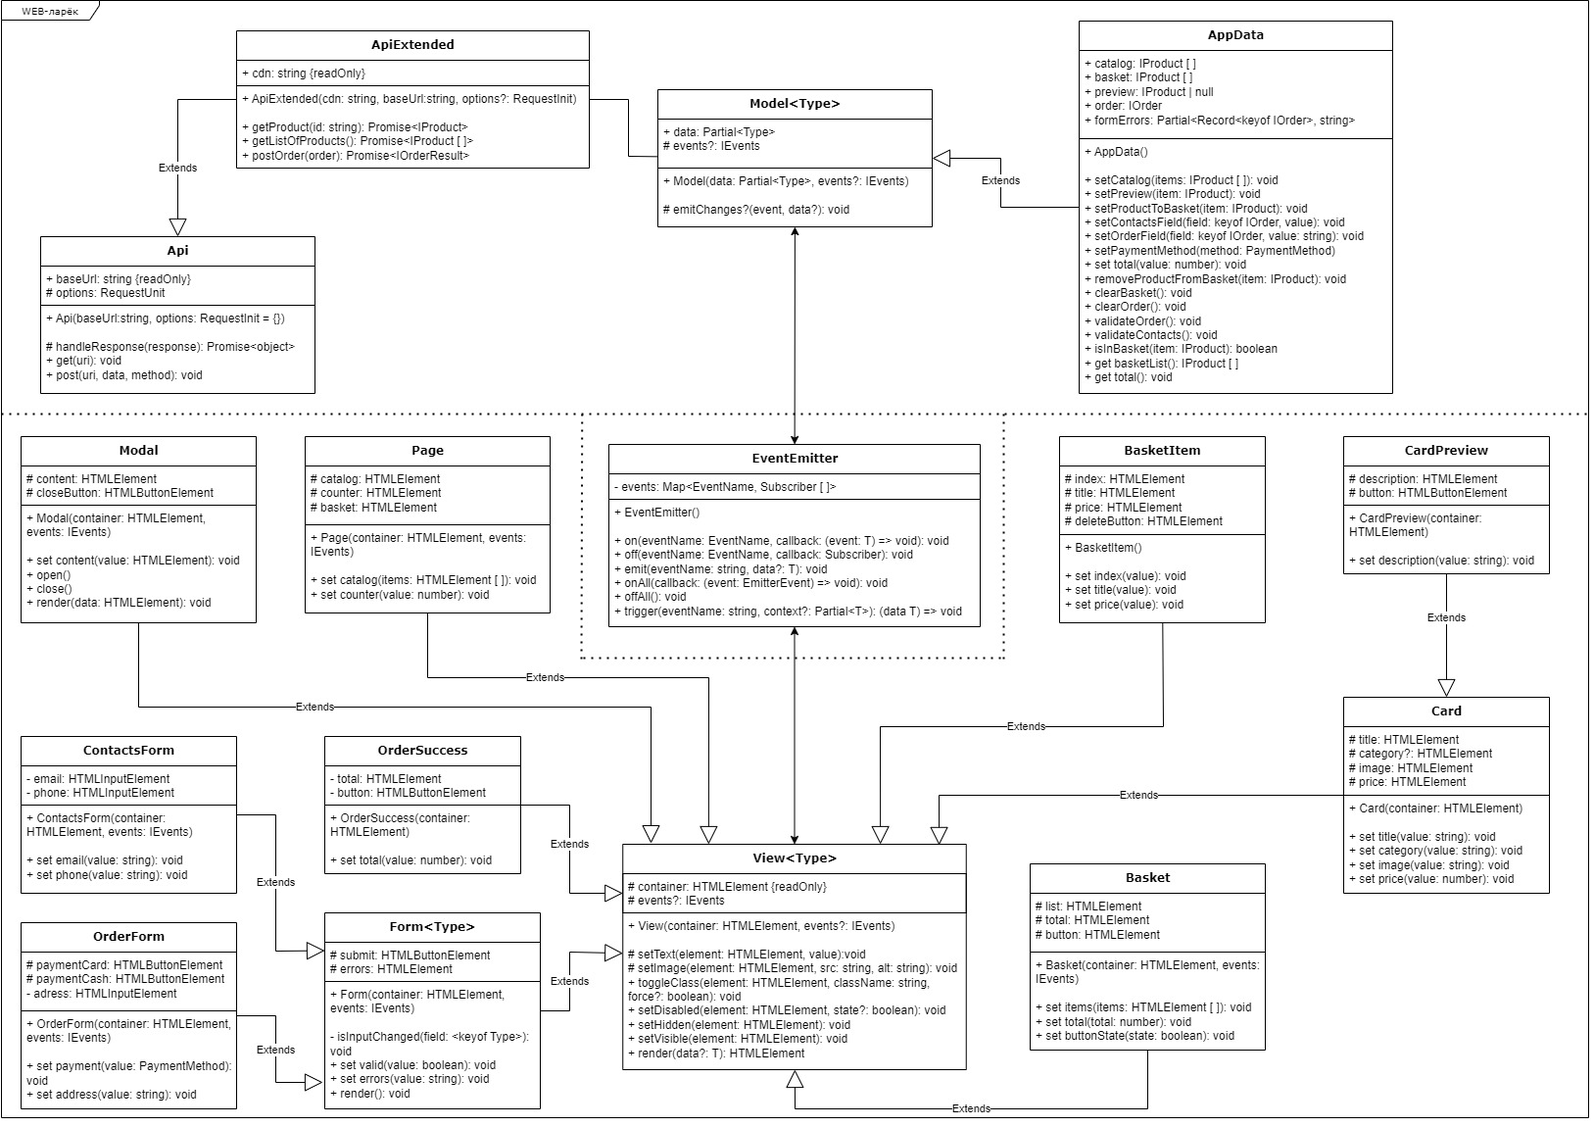
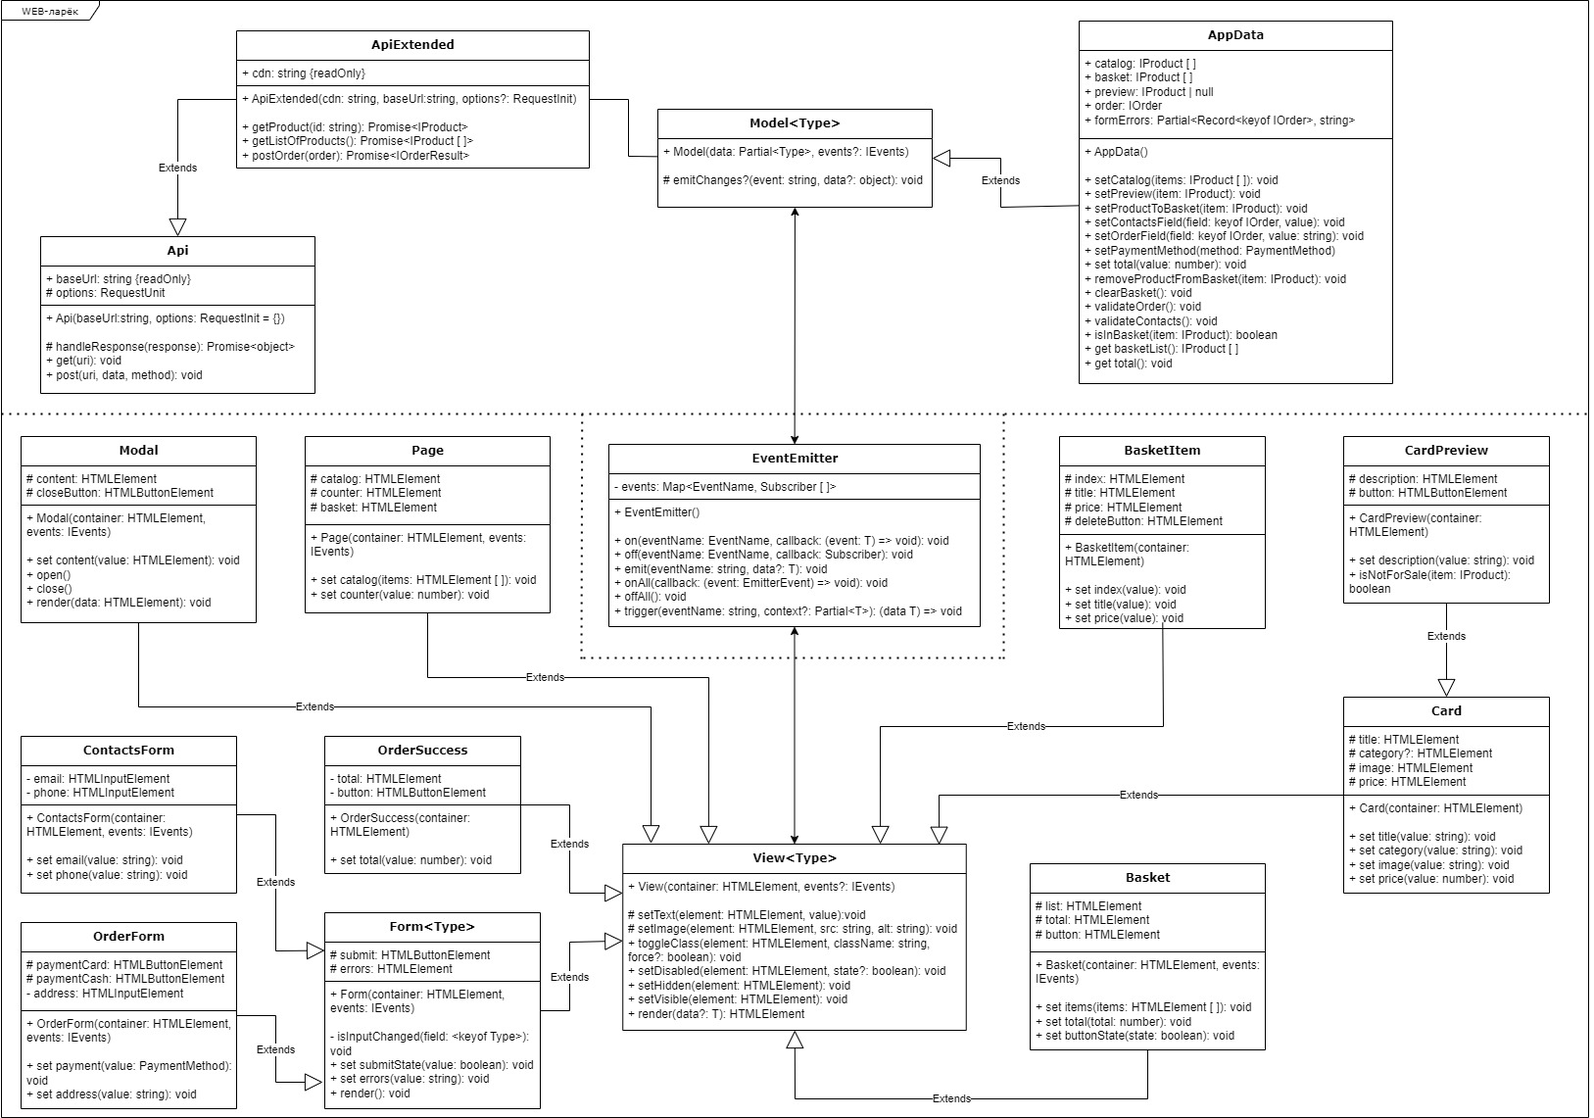
сформирован первоначальный вариант документации проекта

diff --git a/README.md b/README.md
@@ -48,7 +48,11 @@ yarn build
 ## Архитектура
 
 В проекте используется архитектура MVP (Model-View-Presenter), которая разделяет приложение на три основных слоя: модель (бизнес-логика приложения, реализующая хранение и изменение данных), отображение (реализует вывод данных пользователю) и брокер событий (презентер). 
-Данная архитектура строится на событийно-ориентированном подходе к проектированию, который предполагает, что брокер событий связывает между собой модель и отображение, обрабатывая события и передавая данные между ними.  
+Данная архитектура строится на событийно-ориентированном подходе к проектированию, который предполагает, что брокер событий связывает между собой модель и отображение, обрабатывая события и передавая данные между ними.
+
+### UML-схема
+
+![UML](https://github.com/Roman-Gaponov/web-larek-frontend/blob/main/project-uml.jpg)
 
 ## Базовый код
 
@@ -67,7 +71,7 @@ yarn build
 
 **Поля**
 
-`_events` - тип Map, включающий в себя события и "подписчиков" на эти события (компоненты модели или отображения)
+`_events` - тип `Map`, включающий в себя события и "подписчиков" на эти события (компоненты модели или отображения).
 
 **Методы**
 
@@ -77,6 +81,7 @@ yarn build
 - `onAll` - подписка на все события;
 - `offAll` - сброс всех подписок;
 - `trigger` - генератор события с заданными аргументами, что позволяет передавать его в качестве обработчика события в другие классы.
+
 
 ### Модель
 
@@ -92,8 +97,8 @@ yarn build
 
 **Поля**
 
-`baseUrl` - адрес сервера;
-`options` - объект с дополнительными опциями к запросу.
+- `baseUrl` - адрес сервера;
+- `options` - объект с дополнительными опциями к запросу.
 
 **Методы**
 
@@ -101,19 +106,20 @@ yarn build
 - `get` - выполняет GET запрос на сервер;
 - `post` - по умолчанию выполняет POST запрос на сервер (может быть переопределён).
 
+
 #### Класс `ApiExtended`
 
 Расширяет возможности базового класса Api. 
 
 **Конструктор**
 
-`constructor(cdn: string, baseUrl: string, options: RequestInit = {})` 
+`constructor(cdn: string, baseUrl: string, options?: RequestInit)` 
 
 - дополнительно принимает в качестве аргумента url с контентом для проекта.
 
 **Поля**
 
-`cdn` - url с контентом;
+- `cdn` - url с контентом.
 
 **Методы**
 
@@ -121,21 +127,75 @@ yarn build
 - `getListOfProducts` - получить список всех продуктов;
 - `postOrder` - отправить сформированный заказ на сервер.
 
-#### Класс `Model`
 
+#### Абстрактный класс `Model<Type>`
+
+Базовый класс модели, объединяющий данные неявного типа и привязывающий события. 
+
+**Конструктор**
+
+`constructor(data: Partial<Type>, events?: IEvents)` 
+
+- принимает в качестве аргументов данные неявного типа и объект события.
+
+**Методы**
+
+- `emitChanges` - привязывает входящее событие к брокеру событий;
 
 
 #### Класс `AppData`
 
+Реализует основную бизнес-логику приложения и хранение данных.  
 
+**Поля**
 
-#### Класс `ProductItem`
+- `catalog` - массив данных товаров в каталоге;
+- `basket` - массив данных товаров в корзине;
+- `preview` - данные для товара, открытого в превью;
+- `order` - данные для заказа;
+- `formErrors` - данные ошибок валидации.
 
+**Методы**
 
-
+- `setCatalog` - установить новый каталог товаров;
+- `setPreview` - установить данные товара для превью;
+- `setProductToBasket` - поместить продукт в корзину;
+- `setContactsField` - установить поле контактов;
+- `setOrderField` - установить поле заказа;
+- `setPaymentMethod` - установить метод оплаты заказа;
+- `set total` - сеттер, устанавливающий количество товаров в корзине;
+- `removeProductFromBasket` - удалить товар из корзины;
+- `clearBasket` - очистить данные корзины;
+- `validateOrder` - валидировать данные заказа;
+- `validateContacts` - валидировать данные контактов пользователя;
+- `isInBasket` - проверить находится ли товар в козине;
+- `get basketList` - геттер, получающий массив товаров в корзине;
+- `get total` - геттер, получающий количество товаров в корзине.
 
 
 ### Отображение
+
+
+#### Абстрактный класс `View<Type>`
+
+Базовый класс для создания и отображения компонентов пользовательского интерфейса.
+Содержит основные методы для работы с компонентами отображения. 
+
+**Конструктор**
+
+`constructor(container: HTMLElement, events?: IEvents)` 
+
+- принимает в качестве аргументов элемент контейнера, в который будет помещён компонент и объект брокера событий.
+
+**Методы**
+
+- `setText` - установить текст;
+- `setImage` - установить изображение и альтернативный текст;
+- `toggleClass` - переключить класс элемента;
+- `setDisabled` - установить состояние элемента;
+- `setHidden` - скрыть элемент;
+- `setVisible` - отобразить элемент;
+- `render` - отобразить элемент с переданными параметрами.
 
 
 #### Класс `Page`
@@ -146,41 +206,217 @@ yarn build
 
 `constructor(container: HTMLElement, events: IEvents)` 
 
-- принимает в качестве аргументов DOM-элемент главной страницы и брокер событий.
+- принимает в качестве аргументов DOM-элемент главной страницы и объект брокера событий.
 
 **Поля**
 
+- `catalog` - элемент каталога;
+- `counter` - элемент счётчика товаров в корзине;
+- `basket` - элемент корзины.
 
 **Методы**
 
-
-
-
-
-#### Класс `View`
-
-
+- `set catalog` - сеттер, устанавливающий массив товаров в каталоге страницы;
+- `set counter` - сеттер, устанавливающий значение счётчика товаров в корзине.
 
 
 #### Класс `Basket`
 
+Реализует отображение корзины в модальном окне. 
 
+**Конструктор**
+
+`constructor(container: HTMLElement, events: IEvents)` 
+
+- принимает в качестве аргументов элемент корзины и объект брокера событий.
+
+**Поля**
+
+- `list` - элемент списка товаров в корзине;
+- `total` - элемент суммы цены товаров;
+- `button` - элемент кнопки перехода на оформление заказа.
+
+**Методы**
+
+- `set items` - сеттер, устанавливающий массив товаров в элемент `list`;
+- `set total` - сеттер, устанавливающий сумму цены товаров в элемент `total`;
+- `set buttonState` - сеттер, устанавливающий состояние кнопки перехода на оформление заказа.
+
+
+#### Класс `BasketItem`
+
+Реализует отображение данных карточки товара в корзине. 
+
+**Конструктор**
+
+`constructor(container: HTMLElement)` 
+
+- принимает в качестве аргумента элемент карточки товара в корзине.
+
+**Поля**
+
+- `index` - элемент индекса товара в корзине;
+- `title` - элемент наименования товара;
+- `price` - элемент цены товара;
+- `deleteButton` - элемент кнопки удаления товара.
+
+**Методы**
+
+- `set index` - сеттер, устанавливающий индекс товара;
+- `set title` - сеттер, устанавливающий наименование товара;
+- `set price` - сеттер, устанавливающий цену товара.
 
 
 #### Класс `Card`
 
+Реализует отображение карточки товара в каталоге. 
+
+**Конструктор**
+
+`constructor(container: HTMLElement)` 
+
+- принимает в качестве аргумента DOM-элемент карточки на базе шаблона.
+
+**Поля**
+
+- `title` - элемент заголовка карточки;
+- `category` - элемент категории карточки;
+- `image` - элемент изображения;
+- `price` - элемент цены.
+
+**Методы**
+
+- `set title` - сеттер, устанавливающий заголовок карточки;
+- `set category` - сеттер, устанавливающий категорию;
+- `set image` - сеттер, устанавливающий изображение;
+- `set price` - сеттер, устанавливающий цену.
 
 
+#### Класс `CardPreview`
 
-#### Класс `Order`
+Реализует отображение карточки в превью. 
 
+**Конструктор**
 
+`constructor(container: HTMLElement)` 
+
+- принимает в качестве аргумента DOM-элемент карточки на базе шаблона.
+
+**Поля**
+
+- `description` - элемент описания товара;
+- `button` - элемент кнопки в превью.
+
+**Методы**
+
+- `set description` - сеттер, устанавливающий описание товара в превью.
 
 
 #### Класс `Modal`
 
+Реализует модальное окно. 
+
+**Конструктор**
+
+`constructor(container: HTMLElement, events: IEvents)` 
+
+- принимает в качестве аргументов DOM-элемент модального окна на базе шаблона и объект брокера событий.
+
+**Поля**
+
+- `content` - элемент с содержимым модального окна;
+- `closeButton` - элемент кнопки закрытия модального окна.
+
+**Методы**
+
+- `set content` - сеттер, устанавливающий содержимое модального окна;
+- `open` - открыть модальное окно;
+- `close` - закрыть модальное окно.
+- `render` - отобразить модальное окно с переданным содержимым.
 
 
+#### Класс `Form<Type>`
 
-#### Класс ``
+Общий класс для форм. 
+Предоставляет общие инструменты для работы с отображением элементов формы.
 
+**Конструктор**
+
+`constructor(container: HTMLElement, events: IEvents)` 
+
+- принимает в качестве аргументов форму и объект брокера событий.
+
+**Поля**
+
+- `submit` - элемент кнопки сабмита формы;
+- `errors` - элемент сообщений об ошибке валидации формы.
+
+**Методы**
+
+- `isInputChanged` - проверка изменения инпута формы;
+- `set submitState` - сеттер, устанавливающий состояние кнопки сабмита;
+- `set errors` - сеттер, устанавливающий сообщения об ошбиках валидации;
+- `render` - отобразить форму с заданным состоянием.
+
+
+#### Класс `ContactsForm`
+
+Реализует форму ввода контактов пользователя. 
+
+**Конструктор**
+
+`constructor(container: HTMLElement, events: IEvents)` 
+
+- принимает в качестве аргументов форму и объект брокера событий.
+
+**Поля**
+
+- `email` - элемент ввода электронной почты;
+- `phone` - элемент ввода телефона.
+
+**Методы**
+
+- `set email` - сеттер, устанавливающий данные в поле `email`;
+- `set phone` - сеттер, устанавливающий данные в поле `phone`.
+
+
+#### Класс `OrderForm`
+
+Реализует форму отправки заказа. 
+
+**Конструктор**
+
+`constructor(container: HTMLElement, events: IEvents)` 
+
+- принимает в качестве аргументов форму и объект брокера событий.
+
+**Поля**
+
+- `paymentCard` - элемент кнопки выбора оплаты картой;
+- `paymentCash` - элемент кнопки выбора оплаты при получении заказа;
+- `address` - элемент ввода адреса.
+
+**Методы**
+
+- `set payment` - сеттер, устанавливающий классы для кнопок `paymentCard` и `paymentCash`;
+- `set address` - сеттер, устанавливающий данные в поле `addreess`.
+
+
+#### Класс `OrderSuccess`
+
+Реализует отображение успешного оформления заказа в модальном окне. 
+
+**Конструктор**
+
+`constructor(container: HTMLElement)` 
+
+- принимает в качестве аргумента DOM-элемент окна на базе шаблона.
+
+**Поля**
+
+- `total` - элемент общей суммы заказа;
+- `button` - элемент кнопки закрытия.
+
+**Методы**
+
+- `set total` - сеттер, устанавливающий общую сумму заказа.
